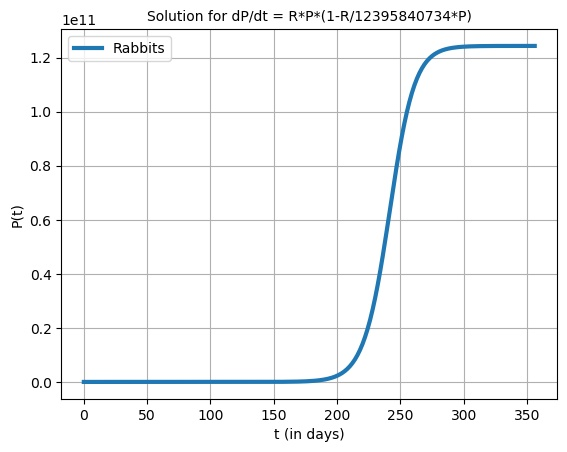
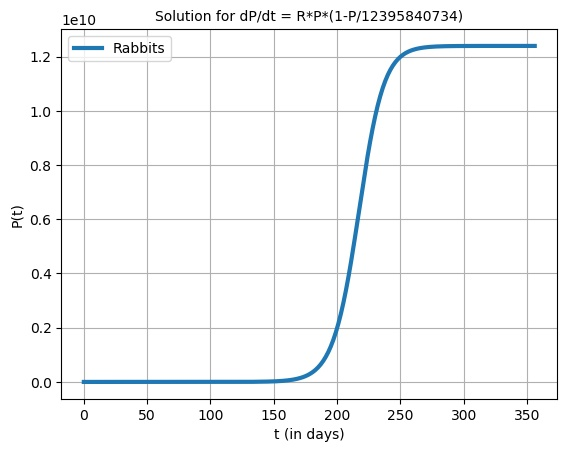
added text and pictures

diff --git a/Verslag2.tex b/Verslag2.tex
@@ -131,7 +131,27 @@ $$
 $$
 
 Lets assume a hunter can cover a area of 10 square kilometers per day and is $50\%$ effective then $C_2 = 5$. For  $C_1$ we can use the equilibrium to determine a suitable constant. 
-$$= RP(t)-\frac{RP^2(t)}{M} - C_2 C_1 \frac{P^2(t)}{A} = 0$$
+$$RP(t)-\frac{RP^2(t)}{M} - C_2 C_1 \frac{P^2(t)}{A} = 0$$
+$$ R-\frac{RP(t)}{M} - C_2 C_1 \frac{P(t)}{A} = 0, P = 0 $$
+$$ C_1 = \frac{R-\frac{RP(t)}{M}}{C_2 \frac{P(t)}{A}} $$
+
+Now we can choose a population of rabbits that we deem apporopiate and find $C_1$
+\\
+\includegraphics[scale=0.4]{Pictures/C_1-P}
+\\
+The amount of hunters was determined by 
+$$H(t) = C_1 P(t)$$
+$$ C_1 = \frac{R-\frac{RP(t)}{M}}{C_2 \frac{P(t)}{A}} $$
+$$H=\frac{R-\frac{RP}{M}}{C_2 \frac{P}{A}}P$$
+$$H = A\frac{R-\frac{RP}{M}}{C_2}$$
+\\
+\includegraphics[scale=0.3]{Pictures/H-P}
+\\
+From this graph we can see that if we want for example an equilibrium of 1000 rabbits we would pick $C_1 = 149.124418706$ which would mean we would need to hire 149124.418706 hunters and if we use eulers method to solve for P we would indeed find that this is correct
+\\
+\includegraphics[scale=0.5]{Pictures/1000H}
+\\
+However this is not realistic for two main reasons. First of all the population is highly unstable because if we pick $C_1 = 14.9124310435$ because we want a population of 10000 we would need to hire 149124.310435 hunters to keep te population stable which is only 0.108271790959 more hunters than for a stable population if 1000
 
 \section{Introducing a preditor: The Red Fox}
 Australia 7 616 666 square kilometer land, of which 1 371 000 square kilometer is desert. Knowing that red foxes don't live in the desert, they have about 7 479 566 square kilometer land to live on. The red fox has a territory that ranges one to two miles from its home. Assuming that the territory of a red fox is circular with a radius of one mile, this means that the area a red fox needs is $\pi*1^2$ which is equal to about 3.14 square mile per fox. Converting this to square kilometer, the fox needs about 8.13 square kilometer of space. This means that Australia can house about 919 996 red foxes, without getting overcrowded. As foxes reproduce every 51 days and get on avarage 5 pups per two foxes, meaning that every fox wil get 2.5 pups in 51 days on avarage. This means that the birth rate is about 0.0245 pups per fox per day. Red foxes live nine years on avarage. This means that the death rate is about 0.0003044 deaths per fox per day.
